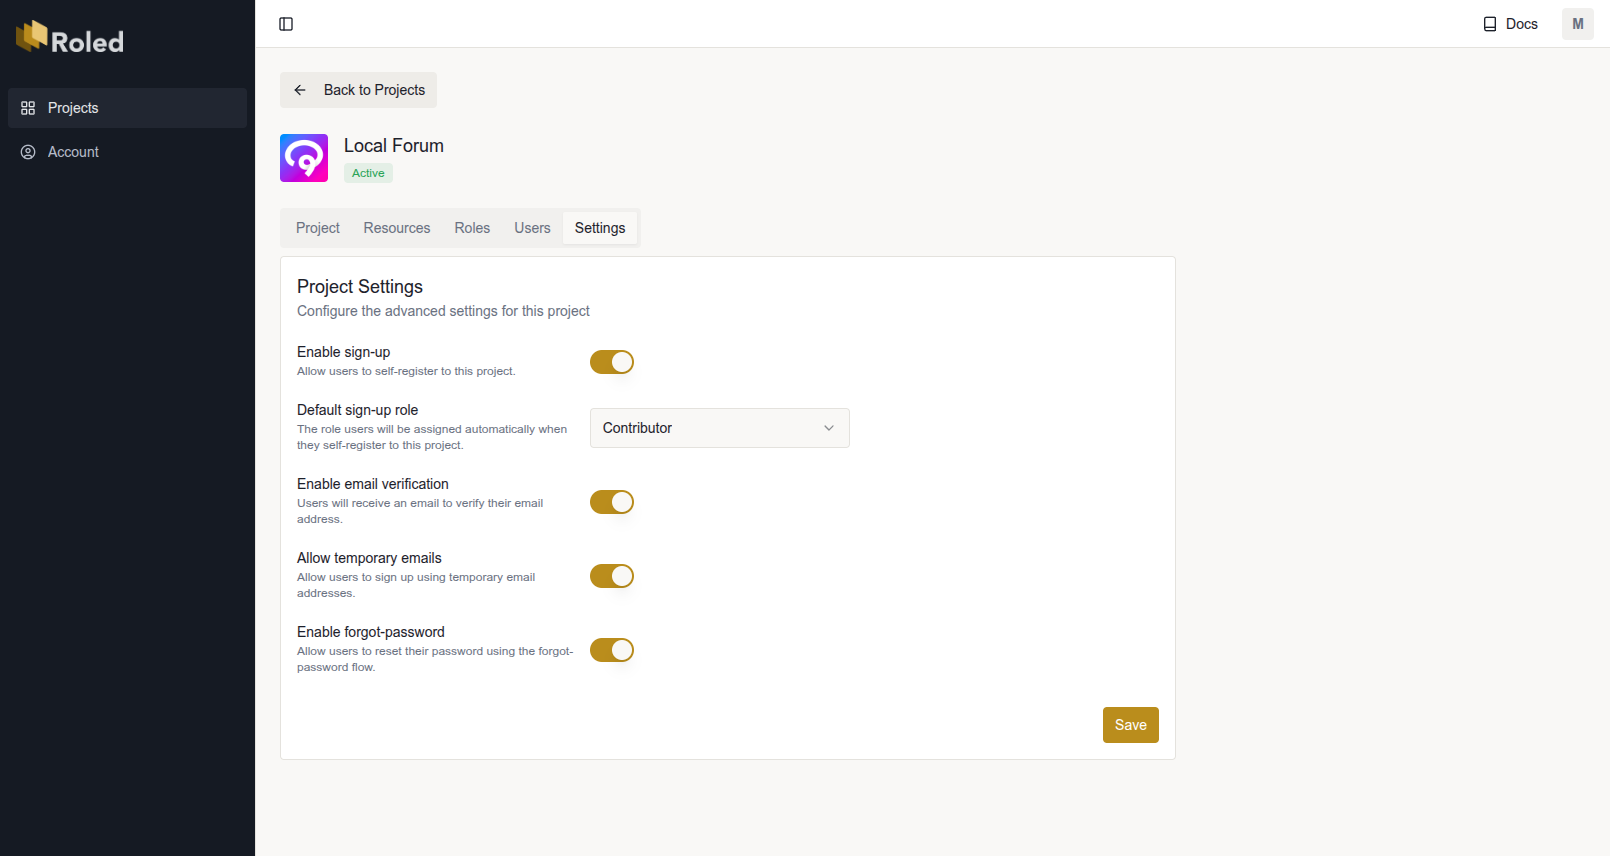
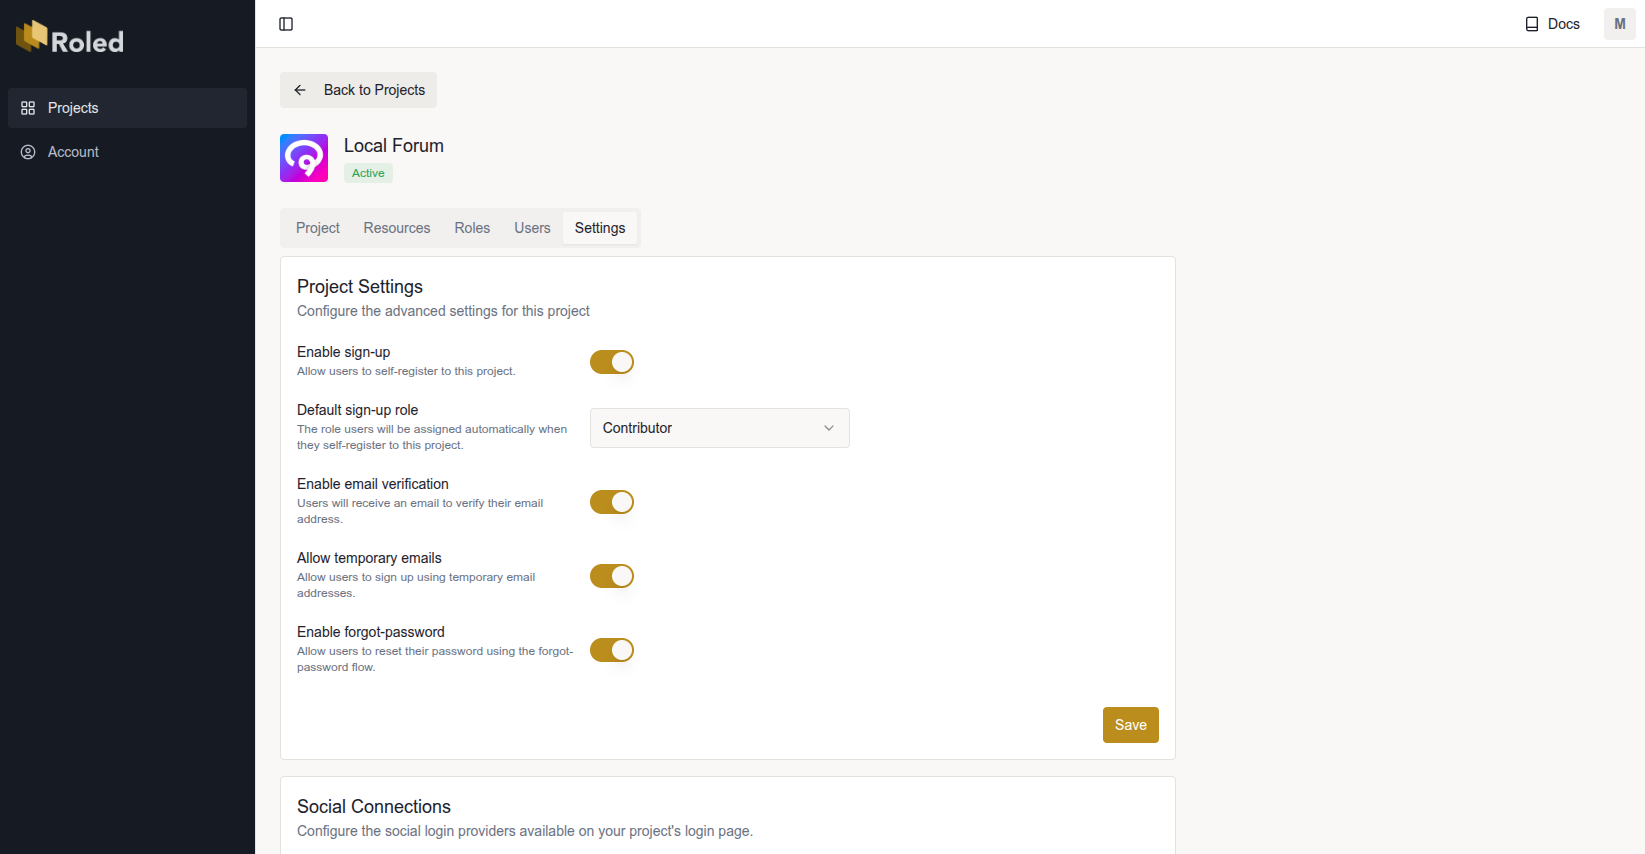
docs: improve screenshots section layout using table format
- Replace CSS Grid layout with HTML table for better markdown compatibility
- Convert screenshot containers from div elements to table cells
- Maintain 2-column layout with improved readability across platforms
- Simplify styling by removing inline CSS grid properties
- Enhance markdown rendering consistency for documentation viewers

diff --git a/README.md b/README.md
@@ -114,28 +114,32 @@ You can now open your browser, visit `http://localhost:4000`, and log in to the 
 
 Here are some screenshots of the Roled Console for you to take a look at so you get the idea of what Roled is all about:
 
-<div style="display: grid; grid-template-columns: 1fr 1fr; gap: 30px; margin-top: 20px;">
-  <div style="text-align: center;">
-    <img src="docs/images/project-list.png" alt="Project List" style="max-width: 100%; border-radius: 8px;" />
-    <h3 style="margin-top: 15px; margin-bottom: 8px;">Project List</h3>
-    <p style="margin: 0; color: #666;">Overview of all projects with quick access and project creation.</p>
-  </div>
-  <div style="text-align: center;">
-    <img src="docs/images/user-list.png" alt="User Management" style="max-width: 100%; border-radius: 8px;" />
-    <h3 style="margin-top: 15px; margin-bottom: 8px;">User Management</h3>
-    <p style="margin: 0; color: #666;">Manage project users, including invitations, email verification, password resets, and role assignments.</p>
-  </div>
-  <div style="text-align: center;">
-    <img src="docs/images/project-settings.png" alt="Project Settings" style="max-width: 100%; border-radius: 8px;" />
-    <h3 style="margin-top: 15px; margin-bottom: 8px;">Project Settings</h3>
-    <p style="margin: 0; color: #666;">Configure authentication flows, default sign-up roles, and security policies.</p>
-  </div>
-  <div style="text-align: center;">
-    <img src="docs/images/signin.png" alt="Sign In Page" style="max-width: 100%; border-radius: 8px;" />
-    <h3 style="margin-top: 15px; margin-bottom: 8px;">Sign In Page</h3>
-    <p style="margin: 0; color: #666;">Clean sign-in and authentication screen for your project users.</p>
-  </div>
-</div>
+<table border="0" cellspacing="10" cellpadding="10">
+  <tr>
+    <td align="center" width="50%">
+      <img src="docs/images/project-list.png" alt="Project List" /><br/>
+      <strong>Project List</strong><br/>
+      Overview of all projects with quick access and project creation.
+    </td>
+    <td align="center" width="50%">
+      <img src="docs/images/user-list.png" alt="User Management" /><br/>
+      <strong>User Management</strong><br/>
+      Manage project users, including invitations, email verification, password resets, and role assignments.
+    </td>
+  </tr>
+  <tr>
+    <td align="center" width="50%">
+      <img src="docs/images/project-settings.png" alt="Project Settings" /><br/>
+      <strong>Project Settings</strong><br/>
+      Configure authentication flows, default sign-up roles, and security policies.
+    </td>
+    <td align="center" width="50%">
+      <img src="docs/images/signin.png" alt="Sign In Page" /><br/>
+      <strong>Sign In Page</strong><br/>
+      Clean sign-in and authentication screen for your project users.
+    </td>
+  </tr>
+</table>
 
 ## Self-Hosted vs. Cloud
 
